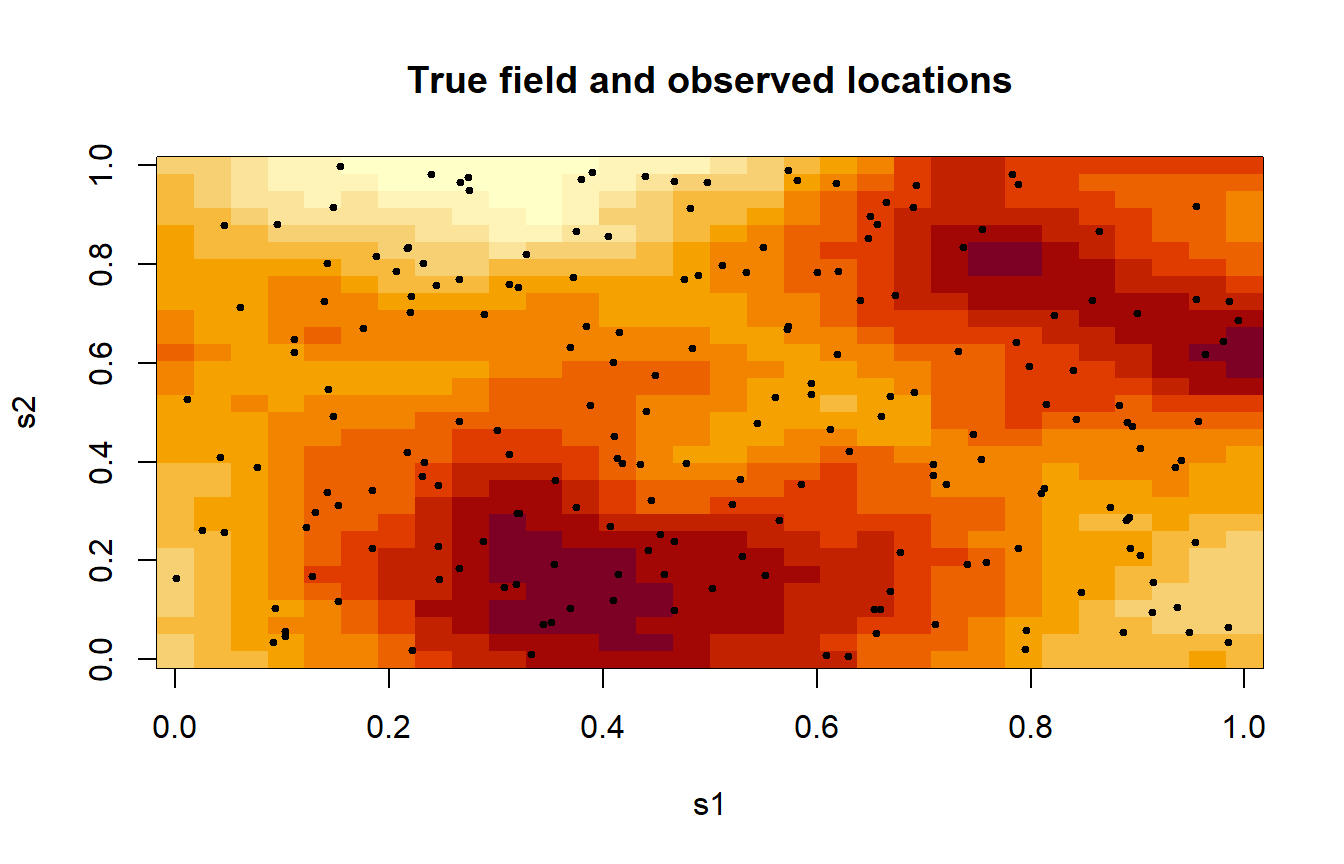
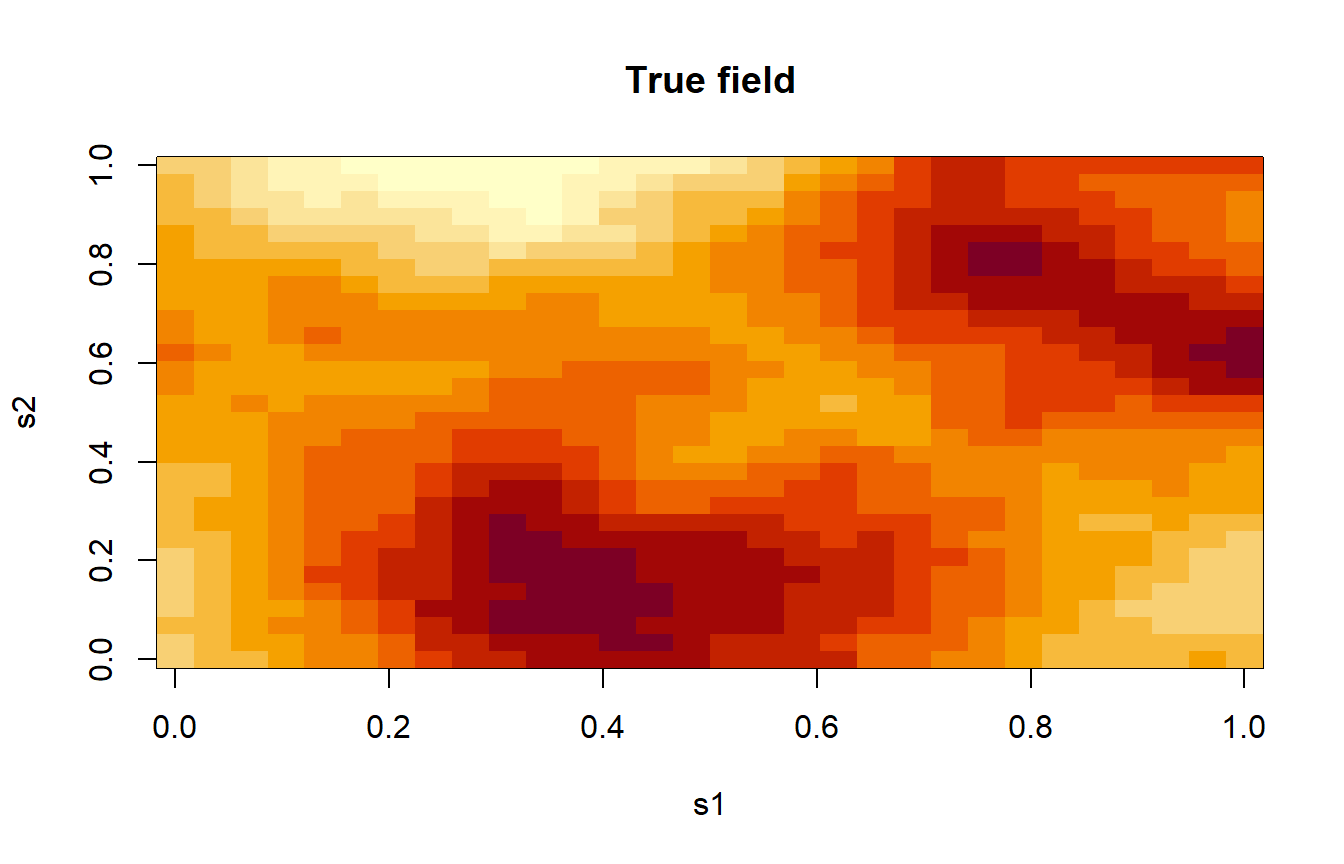
update page

diff --git a/docs/research.html b/docs/research.html
@@ -209,12 +209,12 @@ window.Quarto = {
 </div>
 <div style="text-align: justify;">
 <ul>
-<li><strong>Cavieres, J</strong>., Krumscheid, S, 2026. Bayesian Spatio-Temporal Models via regTPS: Separable and Non-Separable Latent Fields using MCMC.</li>
+<li><strong>Cavieres, J</strong>., Krumscheid, S, 2026. Bayesian Spatio-Temporal Modelling via regTPS: Spearabla and Non-separable Approximations.</li>
 </ul>
 </div>
 <div style="text-align: justify;">
 <ul>
-<li>Curé, M., Cassetti, J., Sarni, M., <strong>Cavieres, J</strong>, 2026. Decoding Stellar Rotation Regularised Inversion of Projected Rotational Velocities.</li>
+<li>Curé, M., Cassetti, J., Sarni, M., <strong>Cavieres, J</strong>., 2026. Decoding Stellar Rotation Regularised Inversion of Projected Rotational Velocities.</li>
 </ul>
 </div>
 <div style="text-align: justify;">
